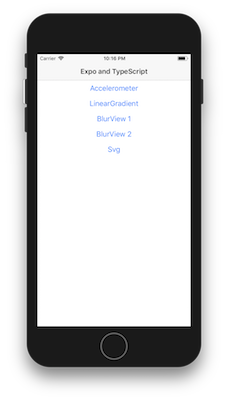
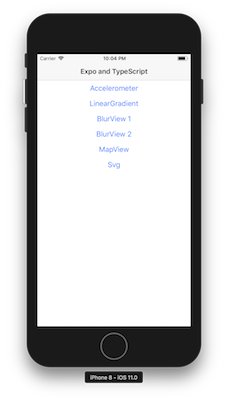
Add type definitions for MapView

Changed region(s): [[0.3684, 0.93, 0.6447, 0.96], [0.4298, 0.36, 0.5833, 0.42], [0.4912, 0.12, 0.5219, 0.15]]

diff --git a/src/expo.d.ts b/src/expo.d.ts
@@ -1,3 +1,4 @@
+// tslint:disable:ban-types
 // tslint:disable:interface-over-type-literal
 // tslint:disable:max-classes-per-file
 
@@ -378,7 +379,174 @@ declare module 'expo' {
     public static deactivate(): void
   }
 
-  // TODO: MapView
+  //#region MapView
+  // Copied from https://github.com/airbnb/react-native-maps/blob/master/index.d.ts. Don't know if it is possible to avoid copying.
+  interface MapViewProps {
+    provider?: 'google'
+    style: any
+    customMapStyle?: Array<any>
+    customMapStyleString?: string
+    showsUserLocation?: boolean
+    userLocationAnnotationTitle?: string
+    showsMyLocationButton?: boolean
+    followsUserLocation?: boolean
+    showsPointsOfInterest?: boolean
+    showsCompass?: boolean
+    zoomEnabled?: boolean
+    rotateEnabled?: boolean
+    cacheEnabled?: boolean
+    loadingEnabled?: boolean
+    loadingBackgroundColor?: any
+    loadingIndicatorColor?: any
+    scrollEnabled?: boolean
+    pitchEnabled?: boolean
+    toolbarEnabled?: boolean
+    moveOnMarkerPress?: boolean
+    showsScale?: boolean
+    showsBuildings?: boolean
+    showsTraffic?: boolean
+    showsIndoors?: boolean
+    showsIndoorLevelPicker?: boolean
+    mapType?: 'standard' | 'satellite' | 'hybrid' | 'terrain' | 'none'
+    region?: {
+      latitude: number;
+      longitude: number;
+      /** Distance between the minimum and the maximum latitude. */
+      latitudeDelta: number;
+      /** Distance between the minimum and the maximum longitude. */
+      longitudeDelta: number;
+    }
+    initialRegion?: {
+      latitude: number;
+      longitude: number;
+      /** Distance between the minimum and the maximum latitude. */
+      latitudeDelta: number;
+      /** Distance between the minimum and the maximum longitude. */
+      longitudeDelta: number;
+    }
+    liteMode?: boolean
+    maxDelta?: number
+    minDelta?: number
+    legalLabelInsets?: any
+    onChange?: Function
+    onMapReady?: Function
+    onRegionChange?: Function
+    onRegionChangeComplete?: Function
+    onPress?: Function
+    onLayout?: Function
+    onLongPress?: Function
+    onPanDrag?: Function
+    onMarkerPress?: Function
+    onMarkerSelect?: Function
+    onMarkerDeselect?: Function
+    onCalloutPress?: Function
+    onMarkerDragStart?: Function
+    onMarkerDrag?: Function
+    onMarkerDragEnd?: Function
+    minZoomLevel?: number
+    maxZoomLevel?: number
+  }
+
+  class MapView extends React.Component<MapViewProps, any> {
+    public static Animated: any
+    public static AnimatedRegion: any
+  }
+
+  namespace MapView {
+    type LineCapType = 'butt' | 'round' | 'square'
+    type LineJoinType = 'miter' | 'round' | 'bevel'
+
+    interface MarkerProps {
+      identifier?: string
+      reuseIdentifier?: string
+      title?: string
+      description?: string
+      image?: any
+      opacity?: number
+      pinColor?: string
+      coordinate: { latitude: number; longitude: number }
+      centerOffset?: { x: number; y: number }
+      calloutOffset?: { x: number; y: number }
+      anchor?: { x: number; y: number }
+      calloutAnchor?: { x: number; y: number }
+      flat?: boolean
+      draggable?: boolean
+      onPress?: Function
+      onSelect?: Function
+      onDeselect?: Function
+      onCalloutPress?: Function
+      onDragStart?: Function
+      onDrag?: Function
+      onDragEnd?: Function
+      zIndex?: number
+    }
+
+    interface MapPolylineProps {
+      coordinates?: Array<{ latitude: number; longitude: number; }>
+      onPress?: Function
+      tappable?: boolean
+      fillColor?: string
+      strokeWidth?: number
+      strokeColor?: string
+      zIndex?: number
+      lineCap?: LineCapType
+      lineJoin?: LineJoinType
+      miterLimit?: number
+      geodesic?: boolean
+      lineDashPhase?: number
+      lineDashPattern?: Array<number>
+    }
+
+    interface MapPolygonProps {
+      coordinates?: Array<{ latitude: number; longitude: number; }>
+      holes?: Array<Array<{ latitude: number; longitude: number; }>>
+      onPress?: Function
+      tappable?: boolean
+      strokeWidth?: number
+      strokeColor?: string
+      fillColor?: string
+      zIndex?: number
+      lineCap?: LineCapType
+      lineJoin?: LineJoinType
+      miterLimit?: number
+      geodesic?: boolean
+      lineDashPhase?: number
+      lineDashPattern?: Array<number>
+    }
+
+    interface MapCircleProps {
+      center: { latitude: number; longitude: number }
+      radius: number
+      onPress?: Function
+      strokeWidth?: number
+      strokeColor?: string
+      fillColor?: string
+      zIndex?: number
+      lineCap?: LineCapType
+      lineJoin?: LineJoinType
+      miterLimit?: number
+      lineDashPhase?: number
+      lineDashPattern?: Array<number>
+    }
+
+    interface MapUrlTitleProps {
+      urlTemplate: string
+      zIndex?: number
+    }
+
+    interface MapCalloutProps {
+      tooltip?: boolean
+      onPress?: Function
+    }
+
+    export class Marker extends React.Component<MarkerProps, any> { }
+    export class Polyline extends React.Component<MapPolylineProps, any> { }
+    export class Polygon extends React.Component<MapPolygonProps, any> { }
+    export class Circle extends React.Component<MapCircleProps, any> { }
+    export class UrlTile extends React.Component<MapUrlTitleProps, any> { }
+    export class Callout extends React.Component<MapCalloutProps, any> { }
+  }
+  //#endregion
 
   /**
    * Expo Video

diff --git a/src/MainScreen.tsx b/src/MainScreen.tsx
@@ -10,6 +10,8 @@ export class MainScreen extends Component<NavigationScreenProps<void>> {
   }
 
   public render() {
+    const navigate = this.props.navigation.navigate
+
     return (
       <View
         style={{
@@ -18,23 +20,27 @@ export class MainScreen extends Component<NavigationScreenProps<void>> {
         }}
       >
         <Button
-          onPress={() => this.props.navigation.navigate('Accelerometer')}
+          onPress={() => navigate('Accelerometer')}
           title="Accelerometer"
         />
         <Button
-          onPress={() => this.props.navigation.navigate('LinearGradient')}
+          onPress={() => navigate('LinearGradient')}
           title="LinearGradient"
         />
         <Button
-          onPress={() => this.props.navigation.navigate('BlurView1')}
+          onPress={() => navigate('BlurView1')}
           title="BlurView 1"
         />
         <Button
-          onPress={() => this.props.navigation.navigate('BlurView2')}
+          onPress={() => navigate('BlurView2')}
           title="BlurView 2"
         />
         <Button
-          onPress={() => this.props.navigation.navigate('Svg')}
+          onPress={() => navigate('MapView')}
+          title="MapView"
+        />
+        <Button
+          onPress={() => navigate('Svg')}
           title="Svg"
         />
       </View>

diff --git a/src/App.tsx b/src/App.tsx
@@ -5,6 +5,7 @@ import { BlurView1Screen } from './BlurView1Screen'
 import { BlurView2Screen } from './BlurView2Screen'
 import { LinearGradientScreen } from './LinearGradientScreen'
 import { MainScreen } from './MainScreen'
+import { MapViewScreen } from './MapViewScreen'
 import { SvgScreen } from './SvgScreen'
 
 export default StackNavigator({
@@ -15,5 +16,6 @@ export default StackNavigator({
   BlurView1: { screen: BlurView1Screen },
   BlurView2: { screen: BlurView2Screen },
   LinearGradient: { screen: LinearGradientScreen },
+  MapView: { screen: MapViewScreen },
   Svg: { screen: SvgScreen },
 })

diff --git a/src/MapViewScreen.tsx b/src/MapViewScreen.tsx
@@ -1,0 +1,19 @@
+import * as React from 'react'
+import { Component } from 'react'
+import { MapView } from 'expo'
+
+export class MapViewScreen extends Component {
+  public render() {
+    return (
+      <MapView
+        style={{ flex: 1 }}
+        initialRegion={{
+          latitude: 55.6838499,
+          latitudeDelta: 0.1,
+          longitude: 12.5630238,
+          longitudeDelta: 0.1,
+        }}
+      />
+    )
+  }
+}

diff --git a/README.md b/README.md
@@ -48,7 +48,7 @@ Here's a lit of the APIs provided by Expo, with a checkmark for the few, that ha
 * [ ] Location
 * [ ] Lottie
 * [ ] Magnetometer
-* [ ] MapView
+* [x] MapView
 * [ ] Notifications
 * [ ] Payments
 * [ ] Pedometer
@@ -146,17 +146,19 @@ import App from './src/App'
 export default App
 ```
 
-### Type Definitions
+### Add Type Definitions for React
 
-1. Add type definitions for React and React Native.
+Add type definitions for React and React Native.
 
 ```shell
 yarn add --dev --exact @types/react @types/react-native
 ```
 
+### Add Type Definitions for Expo
+
 Besides what React Native already has, the Expo SDK comes with a lot of additional APIs for your app. Unfortunately there aren't any type definitions for these APIs, and that makes it difficult to use them correctly in TypeScript. I have started on creating these type definitions, but bare in mind that they still lack a lot of testing.
 
-2. Create a file `expo.d.ts` in the `src` folder and copy the content of this [`expo.d.ts`](https://raw.githubusercontent.com/janaagaard75/expo-sdk-with-type-definitions/master/expo.d.ts) to it.
+Create a file `expo.d.ts` in the `src` folder and copy the content of this [`expo.d.ts`](https://raw.githubusercontent.com/janaagaard75/expo-sdk-with-type-definitions/master/expo.d.ts) to it.
 
 I'm working on both improving these type definitions, and I'm trying to make it easier to add and update them, but they are currently in a very early stage.
 
